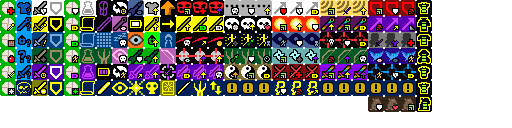
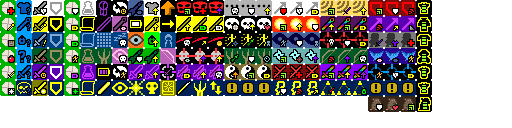
v3.0.0: skeleton impl for trinity

Changed region(s): [[0.625, 0.625, 0.7188, 0.75]]

diff --git a/core/src/main/java/com/shatteredpixel/shatteredpixeldungeon/actors/hero/abilities/cleric/Trinity.java b/core/src/main/java/com/shatteredpixel/shatteredpixeldungeon/actors/hero/abilities/cleric/Trinity.java
@@ -26,22 +26,65 @@ import com.shatteredpixel.shatteredpixeldungeon.actors.hero.Talent;
 import com.shatteredpixel.shatteredpixeldungeon.actors.hero.abilities.ArmorAbility;
 import com.shatteredpixel.shatteredpixeldungeon.items.armor.ClassArmor;
 import com.shatteredpixel.shatteredpixeldungeon.ui.HeroIcon;
+import com.shatteredpixel.shatteredpixeldungeon.utils.GLog;
+import com.watabou.utils.Bundle;
 
 public class Trinity extends ArmorAbility {
+
+	{
+		baseChargeUse = 25;
+	}
+
+	private Class form = null;
+
+	@Override
+	public String targetingPrompt() {
+		//TODO varies based on form? Or just directly jump into item logic?
+		return super.targetingPrompt();
+	}
 
 	@Override
 	protected void activate(ClassArmor armor, Hero hero, Integer target) {
 
+		//always happens atm
+		if (form == null){
+			GLog.w("Trinity has no form currently, use one of its spells!");
+		}
+
+	}
+
+	private static final String FORM = "form";
+
+	@Override
+	public void restoreFromBundle(Bundle bundle) {
+		super.restoreFromBundle(bundle);
+		if (form != null){
+			bundle.put(FORM, form);
+		}
+	}
+
+	@Override
+	public void storeInBundle(Bundle bundle) {
+		super.storeInBundle(bundle);
+		if (bundle.contains(FORM)){
+			form = bundle.getClass(FORM);
+		}
 	}
 
 	@Override
 	public int icon() {
-		return HeroIcon.CLERIC2;
+		return HeroIcon.TRINITY;
+	}
+
+	@Override
+	public String desc() {
+		//TODO a lot of variance here based on form probably.
+		return super.desc();
 	}
 
 	@Override
 	public Talent[] talents() {
-		return new Talent[]{Talent.CLERIC_A2_1, Talent.CLERIC_A2_2, Talent.CLERIC_A2_3};
+		return new Talent[]{Talent.BODY_FORM, Talent.MIND_FORM, Talent.SPIRIT_FORM, Talent.HEROIC_ENERGY};
 	}
 
 }

diff --git a/core/src/main/java/com/shatteredpixel/shatteredpixeldungeon/actors/hero/spells/SpiritForm.java b/core/src/main/java/com/shatteredpixel/shatteredpixeldungeon/actors/hero/spells/SpiritForm.java
@@ -1,0 +1,48 @@
+/*
+ * Pixel Dungeon
+ * Copyright (C) 2012-2015 Oleg Dolya
+ *
+ * Shattered Pixel Dungeon
+ * Copyright (C) 2014-2025 Evan Debenham
+ *
+ * This program is free software: you can redistribute it and/or modify
+ * it under the terms of the GNU General Public License as published by
+ * the Free Software Foundation, either version 3 of the License, or
+ * (at your option) any later version.
+ *
+ * This program is distributed in the hope that it will be useful,
+ * but WITHOUT ANY WARRANTY; without even the implied warranty of
+ * MERCHANTABILITY or FITNESS FOR A PARTICULAR PURPOSE.  See the
+ * GNU General Public License for more details.
+ *
+ * You should have received a copy of the GNU General Public License
+ * along with this program.  If not, see <http://www.gnu.org/licenses/>
+ */
+
+package com.shatteredpixel.shatteredpixeldungeon.actors.hero.spells;
+
+import com.shatteredpixel.shatteredpixeldungeon.actors.hero.Hero;
+import com.shatteredpixel.shatteredpixeldungeon.items.artifacts.HolyTome;
+import com.shatteredpixel.shatteredpixeldungeon.ui.HeroIcon;
+import com.shatteredpixel.shatteredpixeldungeon.utils.GLog;
+
+public class SpiritForm extends ClericSpell {
+
+	public static SpiritForm INSTANCE = new SpiritForm();
+
+	@Override
+	public int icon() {
+		return HeroIcon.SPIRIT_FORM;
+	}
+
+	@Override
+	public float chargeUse(Hero hero) {
+		return 4;
+	}
+
+	@Override
+	public void onCast(HolyTome tome, Hero hero) {
+		GLog.w("not implemented yet!");
+	}
+
+}

diff --git a/core/src/main/java/com/shatteredpixel/shatteredpixeldungeon/actors/hero/spells/BodyForm.java b/core/src/main/java/com/shatteredpixel/shatteredpixeldungeon/actors/hero/spells/BodyForm.java
@@ -1,0 +1,48 @@
+/*
+ * Pixel Dungeon
+ * Copyright (C) 2012-2015 Oleg Dolya
+ *
+ * Shattered Pixel Dungeon
+ * Copyright (C) 2014-2025 Evan Debenham
+ *
+ * This program is free software: you can redistribute it and/or modify
+ * it under the terms of the GNU General Public License as published by
+ * the Free Software Foundation, either version 3 of the License, or
+ * (at your option) any later version.
+ *
+ * This program is distributed in the hope that it will be useful,
+ * but WITHOUT ANY WARRANTY; without even the implied warranty of
+ * MERCHANTABILITY or FITNESS FOR A PARTICULAR PURPOSE.  See the
+ * GNU General Public License for more details.
+ *
+ * You should have received a copy of the GNU General Public License
+ * along with this program.  If not, see <http://www.gnu.org/licenses/>
+ */
+
+package com.shatteredpixel.shatteredpixeldungeon.actors.hero.spells;
+
+import com.shatteredpixel.shatteredpixeldungeon.actors.hero.Hero;
+import com.shatteredpixel.shatteredpixeldungeon.items.artifacts.HolyTome;
+import com.shatteredpixel.shatteredpixeldungeon.ui.HeroIcon;
+import com.shatteredpixel.shatteredpixeldungeon.utils.GLog;
+
+public class BodyForm extends ClericSpell {
+
+	public static BodyForm INSTANCE = new BodyForm();
+
+	@Override
+	public int icon() {
+		return HeroIcon.BODY_FORM;
+	}
+
+	@Override
+	public float chargeUse(Hero hero) {
+		return 2;
+	}
+
+	@Override
+	public void onCast(HolyTome tome, Hero hero) {
+		GLog.w("not implemented yet!");
+	}
+
+}

diff --git a/core/src/main/java/com/shatteredpixel/shatteredpixeldungeon/actors/hero/spells/MindForm.java b/core/src/main/java/com/shatteredpixel/shatteredpixeldungeon/actors/hero/spells/MindForm.java
@@ -1,0 +1,48 @@
+/*
+ * Pixel Dungeon
+ * Copyright (C) 2012-2015 Oleg Dolya
+ *
+ * Shattered Pixel Dungeon
+ * Copyright (C) 2014-2025 Evan Debenham
+ *
+ * This program is free software: you can redistribute it and/or modify
+ * it under the terms of the GNU General Public License as published by
+ * the Free Software Foundation, either version 3 of the License, or
+ * (at your option) any later version.
+ *
+ * This program is distributed in the hope that it will be useful,
+ * but WITHOUT ANY WARRANTY; without even the implied warranty of
+ * MERCHANTABILITY or FITNESS FOR A PARTICULAR PURPOSE.  See the
+ * GNU General Public License for more details.
+ *
+ * You should have received a copy of the GNU General Public License
+ * along with this program.  If not, see <http://www.gnu.org/licenses/>
+ */
+
+package com.shatteredpixel.shatteredpixeldungeon.actors.hero.spells;
+
+import com.shatteredpixel.shatteredpixeldungeon.actors.hero.Hero;
+import com.shatteredpixel.shatteredpixeldungeon.items.artifacts.HolyTome;
+import com.shatteredpixel.shatteredpixeldungeon.ui.HeroIcon;
+import com.shatteredpixel.shatteredpixeldungeon.utils.GLog;
+
+public class MindForm extends ClericSpell {
+
+	public static MindForm INSTANCE = new MindForm();
+
+	@Override
+	public int icon() {
+		return HeroIcon.MIND_FORM;
+	}
+
+	@Override
+	public float chargeUse(Hero hero) {
+		return 3;
+	}
+
+	@Override
+	public void onCast(HolyTome tome, Hero hero) {
+		GLog.w("not implemented yet!");
+	}
+
+}

diff --git a/core/src/main/java/com/shatteredpixel/shatteredpixeldungeon/ui/HeroIcon.java b/core/src/main/java/com/shatteredpixel/shatteredpixeldungeon/ui/HeroIcon.java
@@ -68,7 +68,7 @@ public class HeroIcon extends Image {
 	public static final int ELEMENTAL_STRIKE= 29;
 	public static final int FEINT           = 30;
 	public static final int ASCENDED_FORM   = 31;
-	public static final int CLERIC2         = 32;
+	public static final int TRINITY         = 32;
 	public static final int CLERIC3         = 33;
 	public static final int RATMOGRIFY      = 34;
 
@@ -91,6 +91,9 @@ public class HeroIcon extends Image {
 	public static final int DIVINE_INTERVENTION = 58;
 	public static final int JUDGEMENT       = 59;
 	public static final int FLASH           = 60;
+	public static final int BODY_FORM       = 61;
+	public static final int MIND_FORM       = 62;
+	public static final int SPIRIT_FORM     = 63;
 
 	//all cleric spells have a separate icon with no background for the action indicator
 	public static final int SPELL_ACTION_OFFSET      = 32;

diff --git a/core/src/main/java/com/shatteredpixel/shatteredpixeldungeon/windows/WndChooseAbility.java b/core/src/main/java/com/shatteredpixel/shatteredpixeldungeon/windows/WndChooseAbility.java
@@ -38,6 +38,7 @@ import com.shatteredpixel.shatteredpixeldungeon.ui.Icons;
 import com.shatteredpixel.shatteredpixeldungeon.ui.RedButton;
 import com.shatteredpixel.shatteredpixeldungeon.ui.RenderedTextBlock;
 import com.shatteredpixel.shatteredpixeldungeon.ui.Window;
+import com.watabou.utils.DeviceCompat;
 
 public class WndChooseAbility extends Window {
 
@@ -98,7 +99,7 @@ public class WndChooseAbility extends Window {
 			add(abilityButton);
 
 			//TODO CLERIC these abilities aren't playable atm
-			if (ability instanceof Trinity || ability instanceof PowerOfMany){
+			if (!DeviceCompat.isDebug() && (ability instanceof Trinity || ability instanceof PowerOfMany)){
 				abilityButton.enable(false);
 			}
 

diff --git a/core/src/main/java/com/shatteredpixel/shatteredpixeldungeon/windows/WndChooseSubclass.java b/core/src/main/java/com/shatteredpixel/shatteredpixeldungeon/windows/WndChooseSubclass.java
@@ -35,6 +35,7 @@ import com.shatteredpixel.shatteredpixeldungeon.ui.Icons;
 import com.shatteredpixel.shatteredpixeldungeon.ui.RedButton;
 import com.shatteredpixel.shatteredpixeldungeon.ui.RenderedTextBlock;
 import com.shatteredpixel.shatteredpixeldungeon.ui.Window;
+import com.watabou.utils.DeviceCompat;
 
 public class WndChooseSubclass extends Window {
 	
@@ -85,7 +86,7 @@ public class WndChooseSubclass extends Window {
 			add( btnCls );
 
 			//TODO CLERIC paladin is not implemented yet
-			if (subCls == HeroSubClass.PALADIN){
+			if (!DeviceCompat.isDebug() && subCls == HeroSubClass.PALADIN){
 				btnCls.enable(false);
 			}
 

diff --git a/core/src/main/java/com/shatteredpixel/shatteredpixeldungeon/actors/hero/spells/ClericSpell.java b/core/src/main/java/com/shatteredpixel/shatteredpixeldungeon/actors/hero/spells/ClericSpell.java
@@ -151,13 +151,21 @@ public abstract class ClericSpell {
 			if (cleric.hasTalent(Talent.DIVINE_INTERVENTION)){
 				spells.add(DivineIntervention.INSTANCE);
 			}
-
 			if (cleric.hasTalent(Talent.JUDGEMENT)){
 				spells.add(Judgement.INSTANCE);
 			}
-
 			if (cleric.hasTalent(Talent.FLASH)){
 				spells.add(Flash.INSTANCE);
+			}
+
+			if (cleric.hasTalent(Talent.BODY_FORM)){
+				spells.add(BodyForm.INSTANCE);
+			}
+			if (cleric.hasTalent(Talent.MIND_FORM)){
+				spells.add(MindForm.INSTANCE);
+			}
+			if (cleric.hasTalent(Talent.SPIRIT_FORM)){
+				spells.add(SpiritForm.INSTANCE);
 			}
 
 		}

diff --git a/core/src/main/java/com/shatteredpixel/shatteredpixeldungeon/actors/hero/Talent.java b/core/src/main/java/com/shatteredpixel/shatteredpixeldungeon/actors/hero/Talent.java
@@ -186,8 +186,8 @@ public enum Talent {
 	PALADINT3A(174, 3), PALADINT3B(175, 3), PALADINT3C(176, 3),
 	//Ascended Form T4
 	DIVINE_INTERVENTION(177, 4), JUDGEMENT(178, 4), FLASH(179, 4),
-	//Cleric A2 T4
-	CLERIC_A2_1(180, 4), CLERIC_A2_2(181, 4), CLERIC_A2_3(182, 4),
+	//Trinity T4
+	BODY_FORM(180, 4), MIND_FORM(181, 4), SPIRIT_FORM(182, 4),
 	//Cleric A3 T4
 	CLERIC_A3_1(183, 4), CLERIC_A3_2(184, 4), CLERIC_A3_3(185, 4),
 
